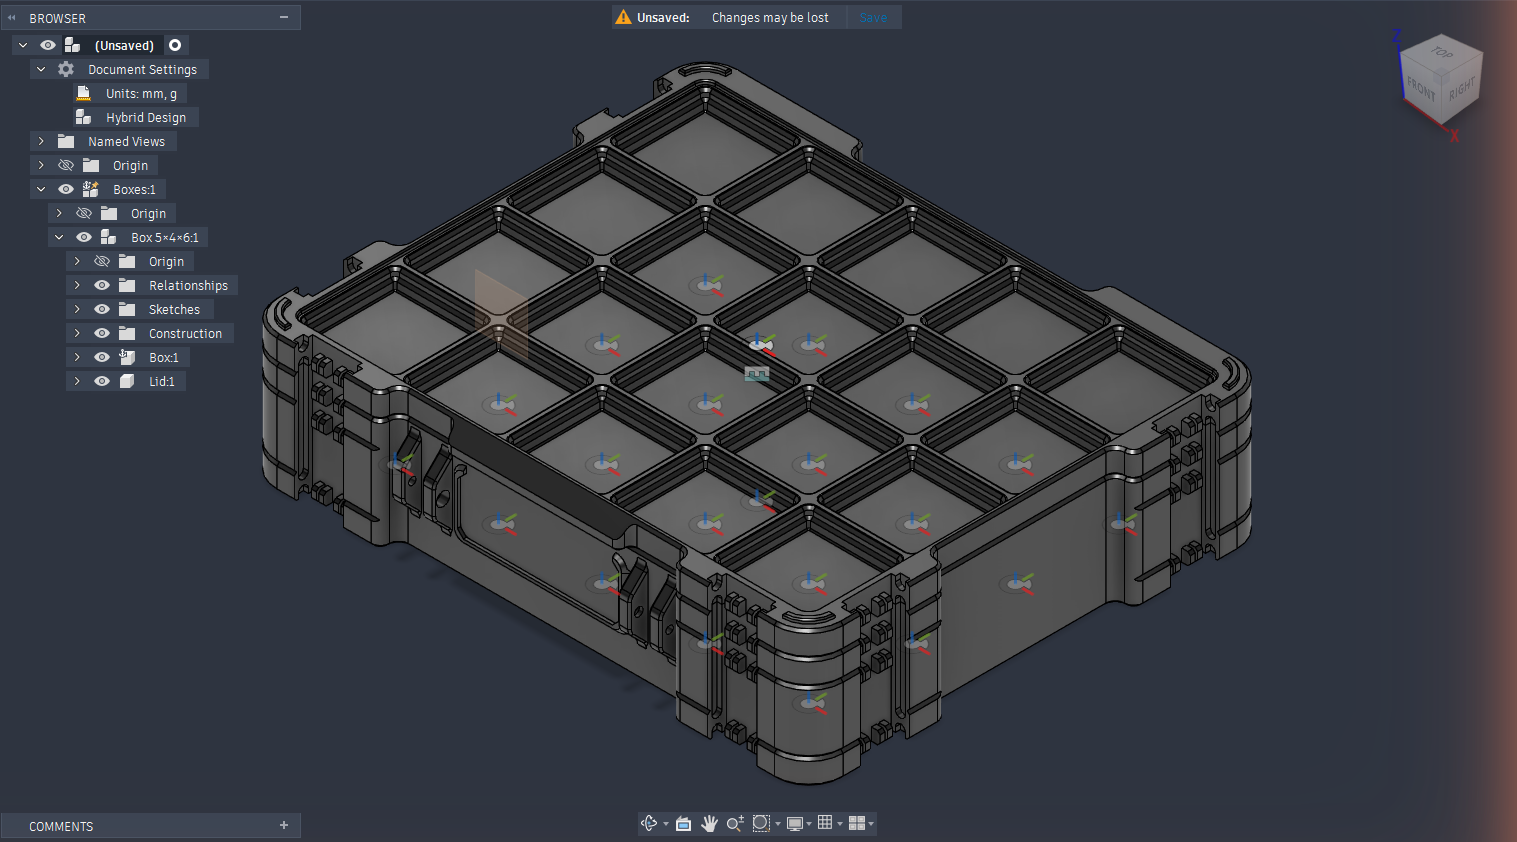
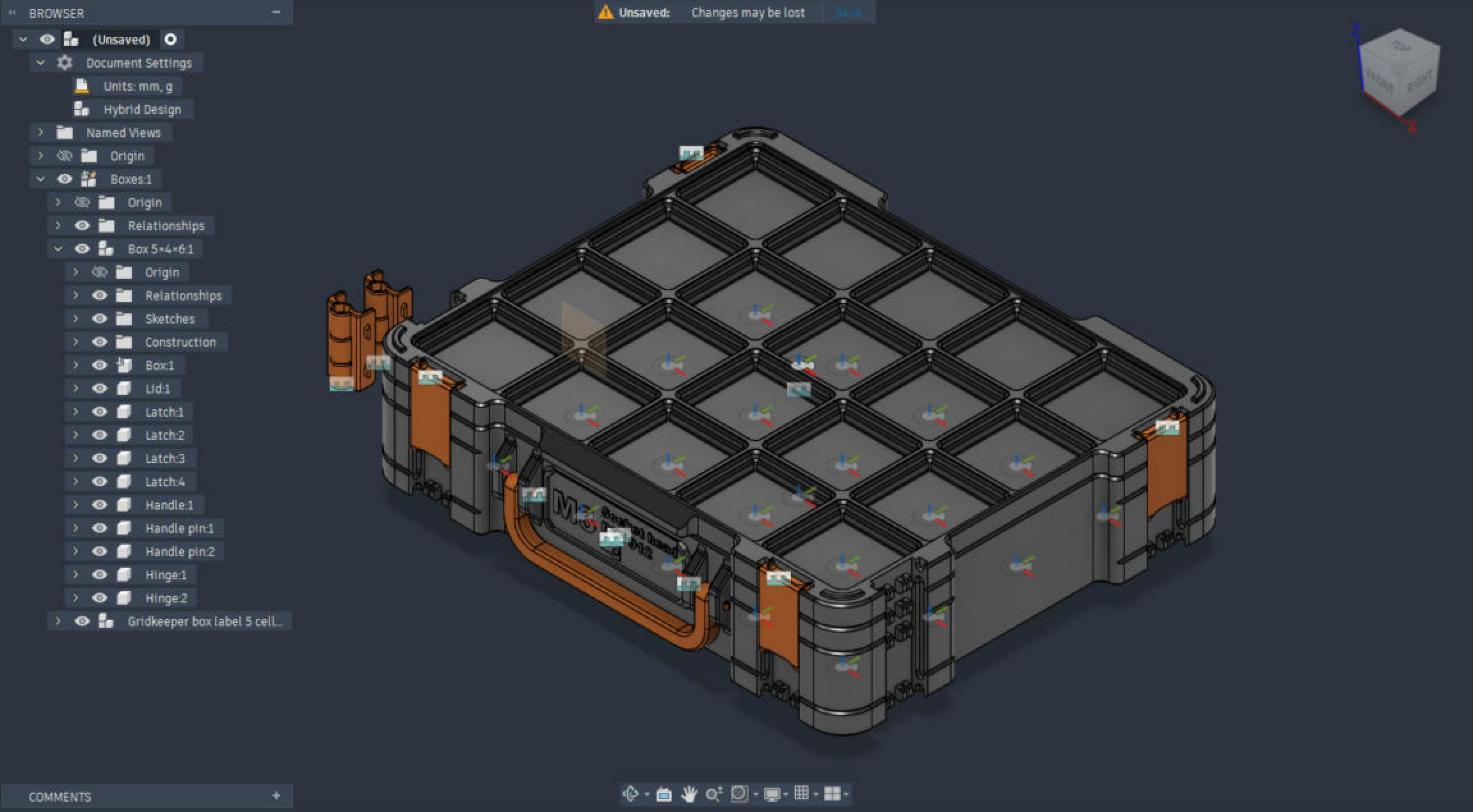
Doku: Box mit Kleinteilen, Box-Dialog mit Hinge, Schild-Dialog (R29)
box-5x4x6.png und dialog-box.png ersetzt, dialog-box-label.png neu im Abschnitt Label; NEEDED.md abgehakt.
Bilder aus Fusion, Stand 6957e48.

diff --git a/docs/boxes.md b/docs/boxes.md
@@ -10,14 +10,14 @@ Every new box is a component of its own in the container *Boxes*, holding the co
 small parts (latches, handle, handle pins, hinges, see [Small parts](#small-parts)); the lid is jointed shut on the
 box, see [Components and joints](working/components.md).
 
-![A box 5 × 4 × 6 with its lid, built by Gridkeeper box, and its set Box 5×4×6 with the components Box and Lid in the browser](assets/images/box-5x4x6.png)
+![A box 5 × 4 × 6 with its lid, its orange small parts and a label in the holder, and its set Box 5×4×6 in the browser: Box, Lid, four latches, the handle, two handle pins and two hinges](assets/images/box-5x4x6.png)
 
 !!! note "Magnet holes"
     Magnet holes are for 6 × 2 mm magnets only: 6 × 3 mm ones would break through the floor.
 
 ## Info
 
-![The Gridkeeper box dialog: Info, Size 5 × 4 × 6 with the outer size 230 × 188 × 65 mm, Magnet holes and Joint origins](assets/images/dialog-box.png)
+![The Gridkeeper box dialog: Info, Size 5 × 4 × 6 with the outer size 230 × 188 × 65 mm, Magnet holes, Joint origins and Small parts with the Hinge choice](assets/images/dialog-box.png)
 
 A link to this page, the credit to Pred and the version of the add-in. When the dialog was opened by
 **Gridkeeper rebuild**, it says which box is rebuilt in place.
@@ -91,6 +91,8 @@ box's group in the timeline and come along with a rebuild or clone. They have an
 **Solid › Create › Gridkeeper box label** makes the label for the holder at the front of the box: Pred's flat plate,
 0.85 mm thick and 24.5 mm high, as wide as the holder of the box (Pred's label width less 3 mm: 25.5 mm at a width of 4,
 67.5 mm at 5, 82 mm from 6 on). It is a command of its own, so a label can be swapped without touching the box.
+
+![The Gridkeeper box label dialog with a box picked: label width Box 5 cells (70.5 mm), plate 67.5 × 24.5 mm, large text M3, two lines, Heavy and Raised, one symbol](assets/images/dialog-box-label.png)
 
 ```
 +--------------------------------------------+

diff --git a/docs/assets/images/NEEDED.md b/docs/assets/images/NEEDED.md
@@ -16,13 +16,11 @@ from GridfinityGenerator. The models in `docs/assets/models` are rendered by a F
 - Export (upstream round 17.11.2026, p13/p300): the export dialog (shot `fusion-dialog-export`; the click test's one
   shows a folder path with a user name, take it again with a neutral folder), and a 3MF of a bin with a colored label
   and an insert opened in Bambu Studio, for `docs/working/export.md`.
-- Storage boxes (round 28): a render of a box 5 × 4 × 6 with its lid and the small parts (latches, handle with its
-  pins, hinges) for [Storage boxes](../../boxes.md), in place of `box-5x4x6.png`.
-- Storage boxes (round 28): `dialog-box.png` again, now with the group *Small parts* and its **Hinge** choice.
 
 ## Taken (click test 17.11.2026, main session)
 
-- `dialog-box.png`, `box-5x4x6.png` (box and lid, before the small parts): [Storage boxes](../../boxes.md).
+- `dialog-box.png` (with *Small parts* and **Hinge**), `box-5x4x6.png` (with the orange small parts and a label in its
+  holder, round 29), `dialog-box-label.png` (the label dialog): [Storage boxes](../../boxes.md).
 - `dialog-bin-magnet-size.png`: [Base, magnets and screws](../../bins/base.md).
 - `dialog-baseplate-magnet-size.png`: [Baseplates](../../baseplates.md).
 - `bin-lip-dialog.png`: [Body, walls and lip](../../bins/body.md).
